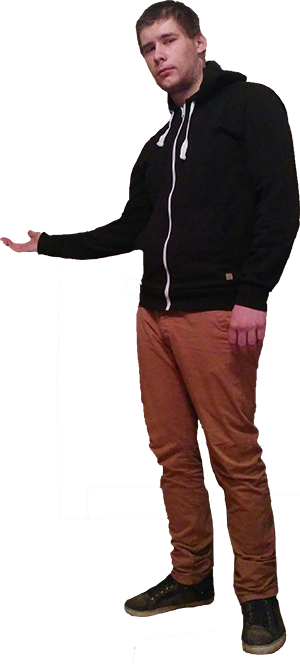
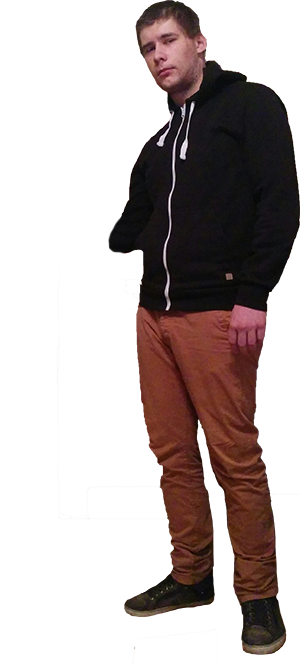
Transforming hand ai5_1.png works

Changed region(s): [[0.0, 0.3313, 0.42, 0.3916]]

diff --git a/AI/artificialJanek.html b/AI/artificialJanek.html
@@ -6,7 +6,17 @@
 	<script src="artificialJanek.js" charset="utf-8"></script>
 	<link rel="stylesheet" href="style.css">
 </head>
-<body>
+<body <!--onmousemove="logi(event)"-->>
+
+	<!--<script>
+		function logi(event){
+			var y=0-(event.clientY-90);
+			console.log(y)
+			
+			document.getElementById('ai5_1').style.transform = 'rotate('+y+'deg)';
+			
+		}
+	</script>-->
 	<button class="restart">Käivita uuesti!</button>
 	<button class="settings">Säti küsimusi</button>
 	
@@ -37,12 +47,13 @@
 	
 	<div id="person">
 		<!--PEATEGELANE-->
-		<img id="ai1" src="pics/ai1.png" alt="Saa rikkaks!" style="display:none">
-		<img id="ai2" src="pics/ai2.png" alt="Saa rikkaks!" style="display:none">
-		<img id="ai3" src="pics/ai3.png" alt="Saa rikkaks!" style="display:none">
-		<img id="ai4" src="pics/ai4.png" alt="Saa rikkaks!" style="display:block">
-		<img id="ai5" src="pics/ai5.png" alt="Saa rikkaks!" style="display:none">
-		<img id="ai6" src="pics/ai6.png" alt="Saa rikkaks!" style="display:none">		
+		<img id="ai1" src="pics/ai1.png" alt="pic1" style="display:none">
+		<img id="ai2" src="pics/ai2.png" alt="pic2" style="display:none">
+		<img id="ai3" src="pics/ai3.png" alt="pic3" height="90%" style="display:none">
+		<img id="ai4" src="pics/ai4.png" alt="pic4" height="100%" style="display:none">
+		<img id="ai5" src="pics/ai5.png" alt="pic5" height="100%" style="display:block">
+		<img id="ai5_1" src="pics/ai5_1.png" alt="pic5_1" height="8%" style="display:block">
+		<img id="ai6" src="pics/ai6.png" alt="pic6" style="display:none">		
 		<!------------ -->
 	</div>
 </body>

diff --git a/AI/artificialJanek.js b/AI/artificialJanek.js
@@ -51,6 +51,12 @@
        }
 
        // esimene loogika oleks see, et kuulame hiireklikki nupul
+		//this.animate(0);
+		/*setTimeout(function(){
+			AI.instance.animate(0);
+		}, 5000);*/
+		
+	   
        this.bindEvents();
 
      },
@@ -102,8 +108,54 @@
 		document.querySelector('.settings').addEventListener('click', function(){
 		   AI.instance.paneChange(4,0);
 		})
+		
+		document.getElementById('mein').addEventListener('onmousemove', function(){
+			var x=event.clientX;
+			var y=event.clientY;
+			console.log("X coords: " + x + ", Y coords: " + y);
+		})
 
      },
+	 
+	 animate: function(par){
+		 
+		 if(par === 0){
+			 
+			 document.getElementById('ai1').style.display = "block";
+			 
+			 setTimeout(function(){
+				 
+				 document.getElementById('ai1').style.display = "none";
+				 
+			     document.getElementById('ai2').style.display = "block";
+				 
+				 setTimeout(function(){
+					 
+					 document.getElementById('ai2').style.display = "none";
+					 
+					 document.getElementById('ai3').style.display = "block";
+					 
+					 setTimeout(function(){
+					 
+						 document.getElementById('ai3').style.display = "none";
+					 
+						 document.getElementById('ai4').style.display = "block";
+						 
+						 setTimeout(function(){
+					 
+							 document.getElementById('ai4').style.display = "none";
+					 
+						 }, 3000);
+					 
+					 }, 1000);
+					 
+				 }, 1000);
+				 
+			 }, 1000);
+			 
+		 }
+		 
+	 },
 	 
 	 paneChange: function(nr, count){
 		 

diff --git a/AI/style.css b/AI/style.css
@@ -1,3 +1,8 @@
+body
+{
+	font-size: 20px;
+}
+
 #mein
 {
 	margin: 0;
@@ -6,13 +11,13 @@
     top: 40%;
     left: 45%;
     margin-right: -55%;
-	border: 5px solid black;
+	/*border: 5px solid black;*/
     padding: 10px;
 }
 
 #person
 {
-	border: 5px solid black;
+	/*border: 5px solid black;*/
 	margin: 0;
 	padding:15px;
 	position: absolute;
@@ -23,9 +28,45 @@
 	height: 90%;
 }
 
-#id4
+#ai1
 {
-	height:700px;
-	transform: translate(-50%, -50%);
-	/*max-width:100%;*/
+	margin-top:110%;
+}
+
+#ai2
+{
+	margin-top:100%;
+}
+
+#ai3
+{
+	margin-top:33%;
+}
+
+#ai4
+{
+	margin-top:10%;
+}
+
+#ai5
+{
+	margin-top:10%;
+	margin-left:-40%;
+	position: relative;
+	z-index: 1;
+}
+
+#ai5_1
+{
+	margin-top:80%;
+	margin-left:-43%;
+	position: absolute;
+	top: 0;
+	left: 0;
+	/*transform: rotate(-30deg);*/
+}
+
+#ai6
+{
+	margin-top:10%;
 }
